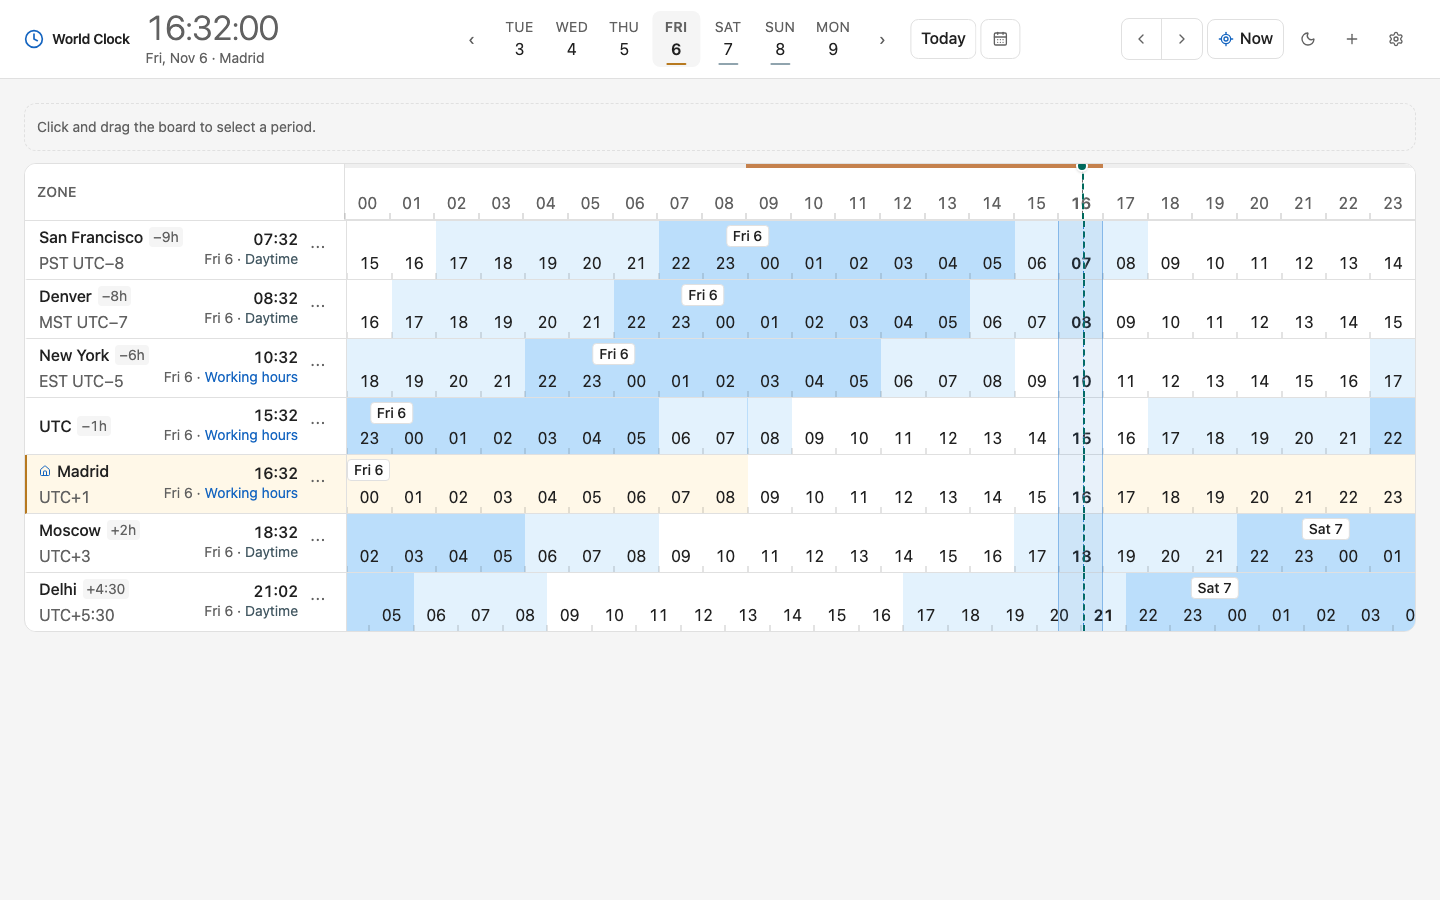
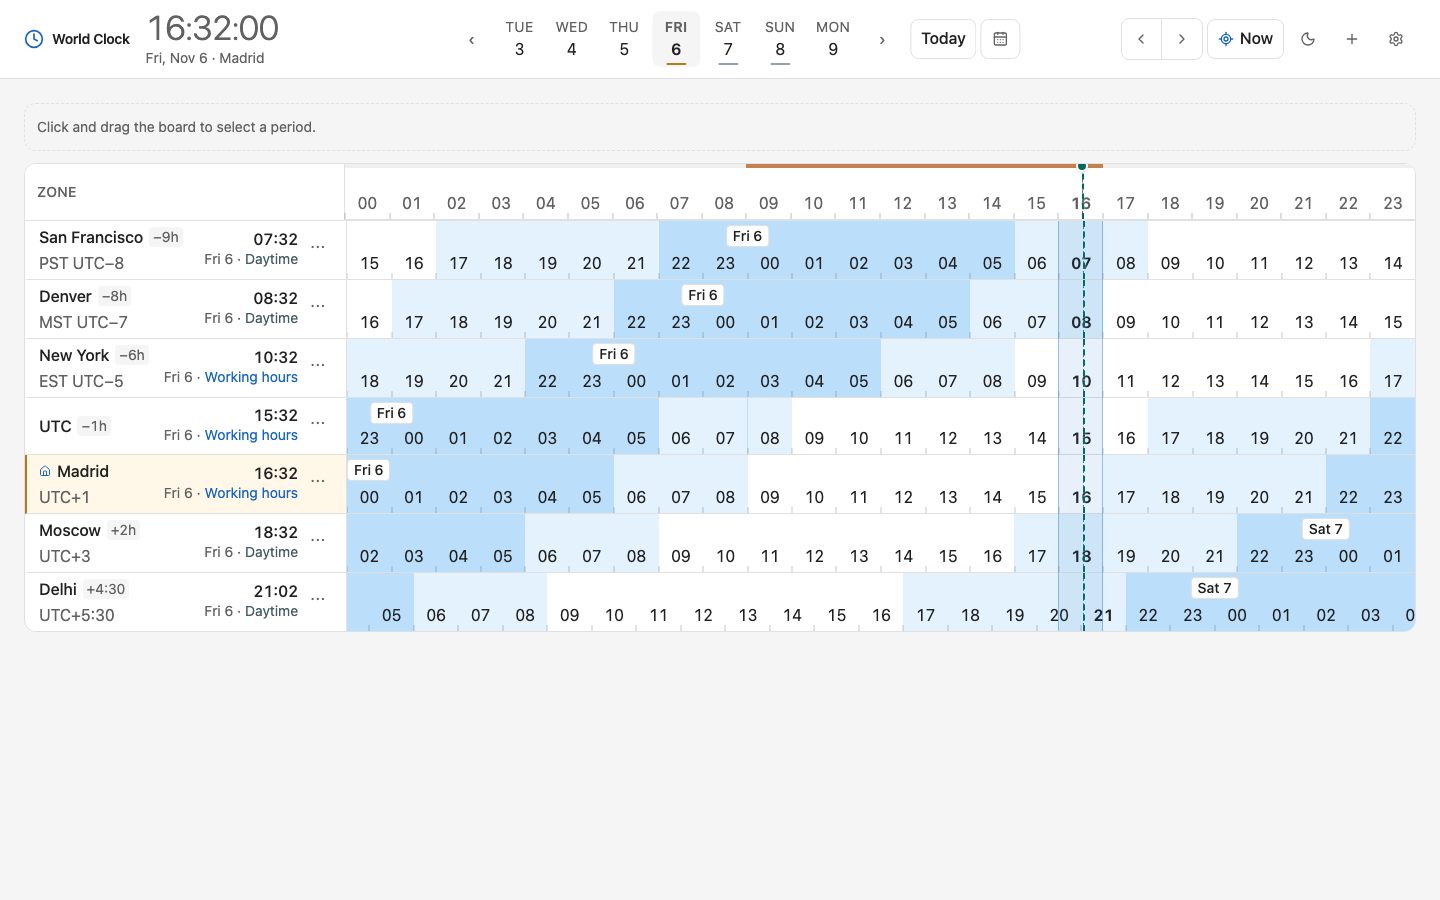
style: tint only the home zone name column
Drop the home row overlay from the timeline so its hour cells keep the normal day, twilight, night, and work bands. The sticky name column and the row's left edge continue to mark the home zone.

Changed region(s): [[0.2188, 0.4978, 0.5312, 0.5911], [0.75, 0.4978, 1.0, 0.5911]]

diff --git a/e2e/world-clock.spec.ts b/e2e/world-clock.spec.ts
@@ -187,6 +187,29 @@ test('emphasizes the home row and the hovered row', async ({ page }) => {
   );
 });
 
+test('tints only the home zone name column', async ({ page }) => {
+  const home = page.getByTestId('row-Europe/Madrid');
+  const nameCell = home.locator('[role="gridcell"]').first();
+  expect(await nameCell.evaluate((element) => getComputedStyle(element).backgroundColor)).toBe(
+    'rgb(255, 248, 232)',
+  );
+  expect(await home.evaluate((element) => getComputedStyle(element).backgroundColor)).toBe(
+    'rgba(0, 0, 0, 0)',
+  );
+  await expect(page.getByTestId('home-row-fill')).toHaveCount(0);
+
+  await page.emulateMedia({ colorScheme: 'dark' });
+  await page.reload();
+  await expect(page.locator('html')).toHaveAttribute('data-theme', 'dark');
+  expect(
+    await page
+      .getByTestId('row-Europe/Madrid')
+      .locator('[role="gridcell"]')
+      .first()
+      .evaluate((element) => getComputedStyle(element).backgroundColor),
+  ).toBe('rgb(101, 68, 58)');
+});
+
 test('passes an axe scan in dark mode', async ({ page }) => {
   await page.emulateMedia({ colorScheme: 'dark' });
   await page.reload();
@@ -656,7 +679,6 @@ test('keeps work-hour markings warm instead of night blue', async ({ page }) => 
       .first()
       .evaluate((element) => getComputedStyle(element).backgroundColor),
   ).toBe('rgb(255, 255, 255)');
-  await expect(page.getByTestId('home-row-fill')).toBeVisible();
 });
 
 test('keeps the header height when the relative badge appears', async ({ page }) => {

diff --git a/src/app.css b/src/app.css
@@ -16,7 +16,6 @@
   --color-band-night: var(--band-night);
   --color-band-work: var(--band-work);
   --color-work-line: var(--work-line);
-  --color-home-row: var(--home-row);
   --color-home-row-header: var(--home-row-header);
   --color-home-accent: var(--home-accent);
   --color-weekend-line: var(--weekend-line);
@@ -54,7 +53,6 @@
   --band-marker: #ffffff;
   --band-marker-text: #212121;
   --work-line: #b45309;
-  --home-row: #fff8e8;
   --home-row-header: #fff8e8;
   --home-accent: #b7791f;
   --weekend-line: #90a4ae;
@@ -84,7 +82,6 @@
   --band-marker: #3a312d;
   --band-marker-text: #fdf6f2;
   --work-line: #fbbf24;
-  --home-row: #61483d;
   --home-row-header: #65443a;
   --home-accent: #fbbf24;
   --weekend-line: #b0897c;

diff --git a/src/lib/components/ZoneRow.svelte b/src/lib/components/ZoneRow.svelte
@@ -126,7 +126,7 @@
     isHovered
       ? 'border-l-accent bg-accent/5'
       : isHome
-        ? 'border-l-home-accent bg-home-row'
+        ? 'border-l-home-accent'
         : 'border-l-transparent'
   }`}
 >
@@ -261,14 +261,6 @@
         style={`left: ${pct(band.start)}; width: ${pct(band.end - band.start)}`}
       ></div>
     {/each}
-
-    {#if isHome}
-      <div
-        data-testid="home-row-fill"
-        class="bg-home-row pointer-events-none absolute inset-0 z-[1]"
-        aria-hidden="true"
-      ></div>
-    {/if}
 
     {#if showWorkingHours}
       {#each model.bands.work as segment (segment.start)}

diff --git a/docs/typography.md b/docs/typography.md
@@ -61,21 +61,21 @@ Rules:
 
 The light theme follows Material Blue:
 
-| Token      | Value                 | Use                           |
-| ---------- | --------------------- | ----------------------------- |
-| Page       | `#f5f5f5`             | Outside the app surface       |
-| Surface    | `#ffffff`             | Header, board, controls       |
-| Text       | `#212121`             | Primary labels and numbers    |
-| Muted      | `#757575`             | Zone metadata and helpers     |
-| Accent     | `#1976d2`             | Primary actions and selection |
-| Focus      | `#26a69a`             | Focus line and range handles  |
-| Day band   | `#e3f2fd`             | Daylight and twilight hours   |
-| Night band | `#bbdefb`             | Night hours                   |
-| Work strip | `#b45309` / `#fbbf24` | Work-hours indicator          |
-| Work cells | `#ffffff`             | Working-hours cells           |
-| Home row   | `#fff8e8` / `#f5e9c8` | Home-zone highlight           |
-| Today      | `#b7791f` / `#fbbf24` | Today underline and ring      |
-| Weekend    | `#90a4ae` / `#b0bec5` | Weekend underline             |
+| Token       | Value                 | Use                           |
+| ----------- | --------------------- | ----------------------------- |
+| Page        | `#f5f5f5`             | Outside the app surface       |
+| Surface     | `#ffffff`             | Header, board, controls       |
+| Text        | `#212121`             | Primary labels and numbers    |
+| Muted       | `#757575`             | Zone metadata and helpers     |
+| Accent      | `#1976d2`             | Primary actions and selection |
+| Focus       | `#26a69a`             | Focus line and range handles  |
+| Day band    | `#e3f2fd`             | Daylight and twilight hours   |
+| Night band  | `#bbdefb`             | Night hours                   |
+| Work strip  | `#b45309` / `#fbbf24` | Work-hours indicator          |
+| Work cells  | `#ffffff`             | Working-hours cells           |
+| Home header | `#fff8e8`             | Home-zone name column         |
+| Today       | `#b7791f` / `#fbbf24` | Today underline and ring      |
+| Weekend     | `#90a4ae` / `#b0bec5` | Weekend underline             |
 
 Status text uses the semantic warning and danger tokens.
 
@@ -87,8 +87,7 @@ Status text uses the semantic warning and danger tokens.
 | Twilight    | `#5a4a44` | Twilight hours         |
 | Night band  | `#3c322e` | Night hours            |
 | Work cells  | `#7a665e` | Working-hours cells    |
-| Home row    | `#61483d` | Home-zone highlight    |
-| Home header | `#65443a` | Home-zone row header   |
+| Home header | `#65443a` | Home-zone name column  |
 | Band text   | `#fdf6f2` | Labels on board cells  |
 | Marker      | `#3a312d` | Date markers           |
 | Focus       | `#26a69a` | Focus line and handles |

diff --git a/AGENTS.md b/AGENTS.md
@@ -85,10 +85,11 @@ docs/architecture.md  current design
 - Work-hours strip uses the amber `work-line` token; work cells use the
   white `band-work` token. Do not reuse the blue night palette for work markings.
 - Dark mode uses the Warm Dark A1.2 board tokens: warm brown bands, a deep-brown
-  home row, light band text, and the teal focus line. Do not reintroduce light
-  blue or white board cells in dark mode.
-- The home row uses the warm `home-row`/`home-row-header` tokens and
-  `home-accent` edge, including its hour cells; never use blue for home emphasis.
+  home header, light band text, and the teal focus line. Do not reintroduce
+  light blue or white board cells in dark mode.
+- The home zone is marked by the `home-row-header` tint on its sticky name
+  column and the `home-accent` row edge. Its timeline cells keep the normal
+  day/twilight/night/work bands; never tint the whole home row.
 - Keep focus/now lines, hour boundary ticks, and range fills aligned across
   the ruler and rows. Hour labels are centered in their cells; boundary ticks
   stay at the cell starts. Ticks must paint above the white work-cell overlay
@@ -118,7 +119,8 @@ docs/architecture.md  current design
 - The focus readout date omits the year unless the target year differs from the
   current home-zone year. Show that year inline; at 1440–1535px the centered
   day strip nudges right just enough to clear the wider readout.
-- The home row keeps a subtle tint and left accent. Hovering a board cell
+- The home row keeps its left accent and tints only the sticky name column.
+  Hovering a board cell
   keeps its whole zone row and hour column fully lit, adds restrained 1px
   accent outlines, and dims the rest with `crosshair-dim`; never dim touch
   interactions.

diff --git a/docs/architecture.md b/docs/architecture.md
@@ -98,7 +98,7 @@ Import replaces the current document only after confirmation. Export includes
   work-cell overlay so they remain visible during working hours.
 - Focus/now lines and range fills render in the ruler and every row. The focus
   line is a 2px dashed teal stroke with a soft light halo so it reads over
-  white work cells, blue bands, and the warm home row. It is hidden when the
+  white work cells, blue bands, and the warm home header. It is hidden when the
   viewed day does not contain now; the header clock and focused-hour highlight
   retain focus context. Range fills and handles still render on any day. A
   hover overlay follows the cursor without changing selection, keeping the
